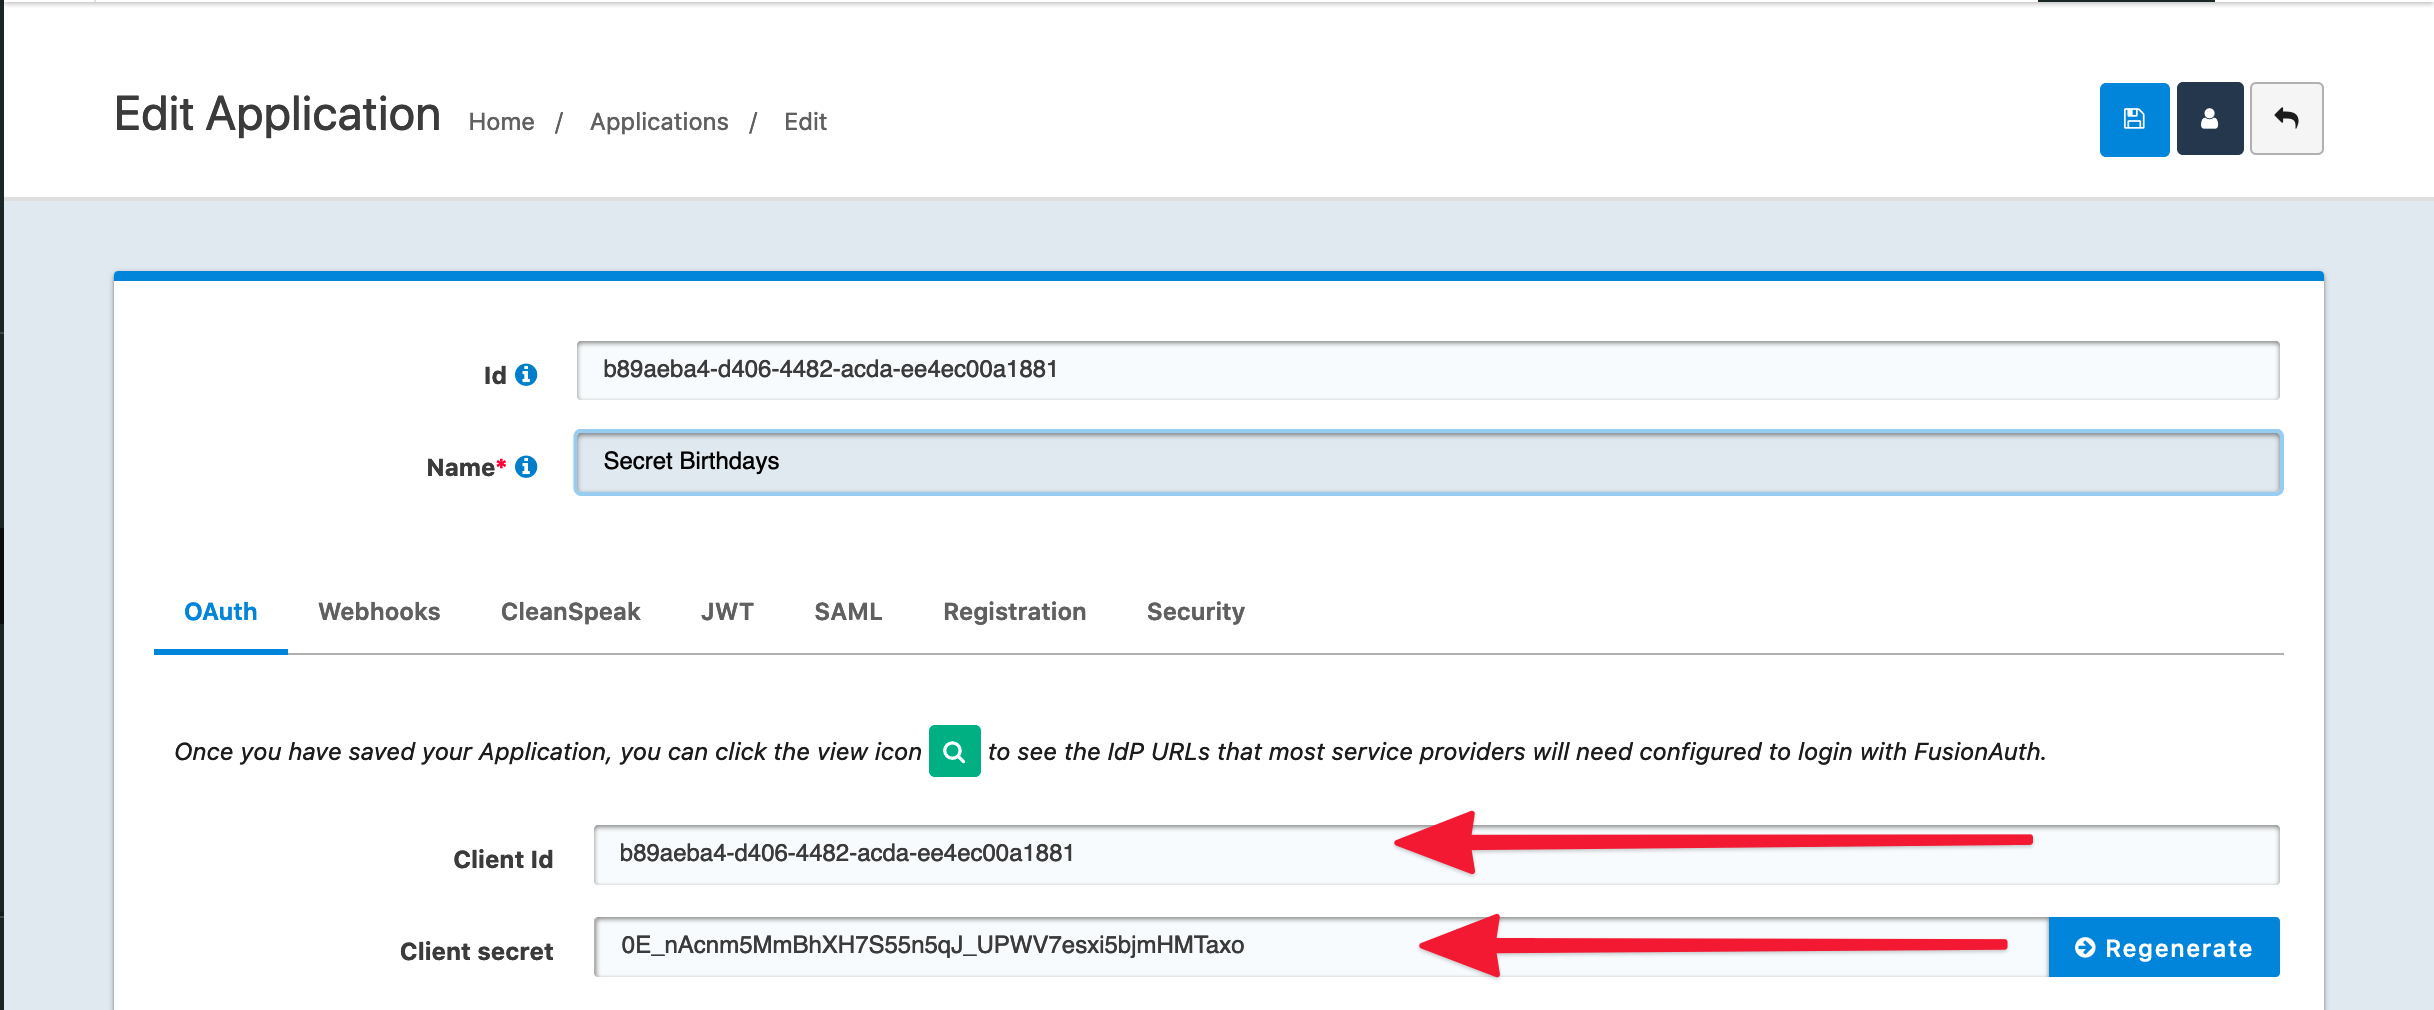
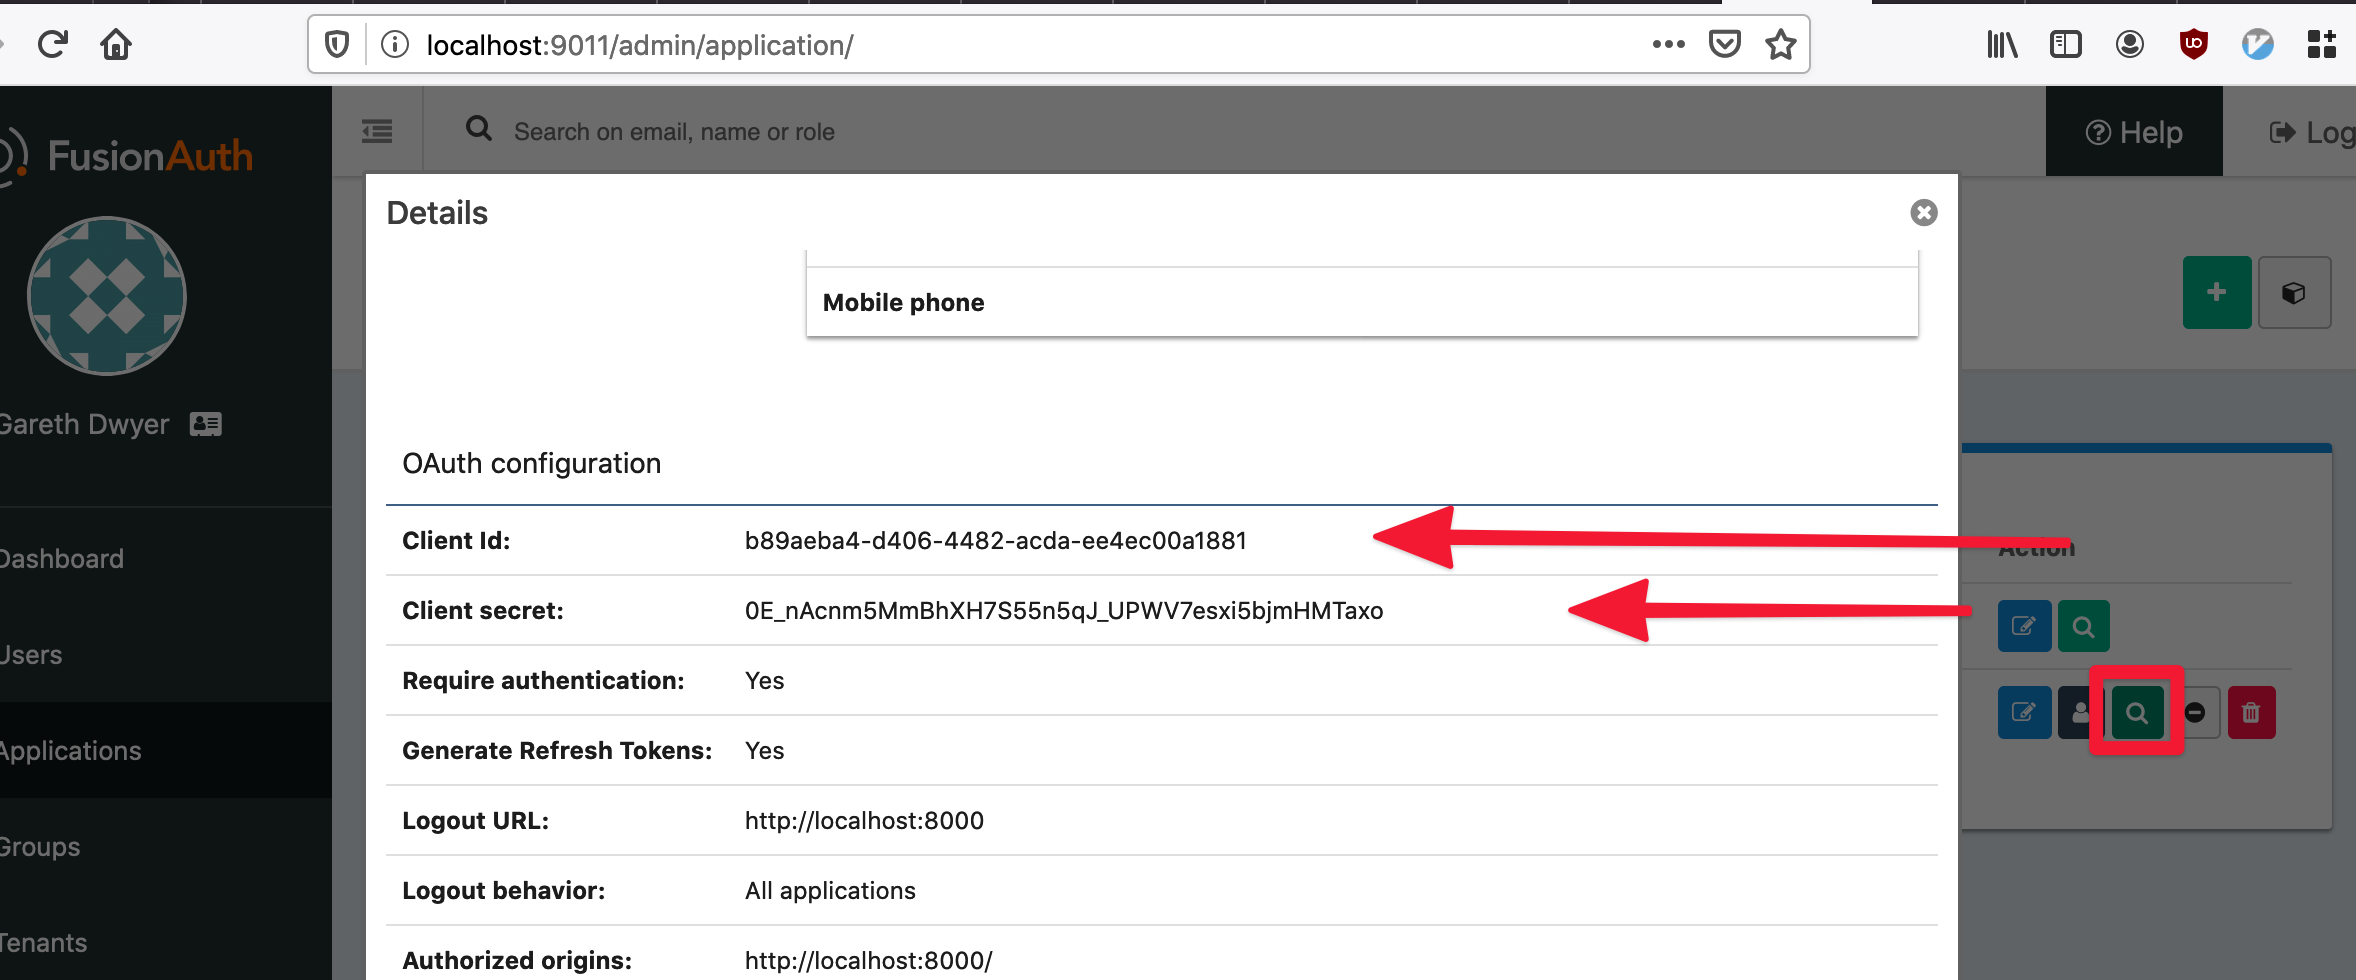
fusionauth edits

diff --git a/drafts/fusionauth/adding-social-sign-in-to-django-using-fusionauth.html b/drafts/fusionauth/adding-social-sign-in-to-django-using-fusionauth.html
@@ -153,18 +153,18 @@ class HomeView(View):
 ]</code></pre>
 <p>If you fire up <a href="http://localhost:8000">http://localhost:8000</a> in your web browser now, you should see our home page.</p>
 <figure>
-<img src="images/homepage1.png" alt="" /><figcaption><strong>Image :</strong> <em>How our home page will look</em></figcaption>
+<img src="images/homepage1.png" alt="" /><figcaption><strong>Image :</strong> <em>Our public home page</em></figcaption>
 </figure>
 <p>To build the login URL (which will direct users to our FusionAuth server), we need to have some of our FusionAuth config copied across to our Django project. Specifically, we’ll need an API key and our app’s client ID.</p>
 <p>Go back to the FusionAuth dashboard (<a href="http://localhost9011">http://localhost:9011</a>) and complete the next piece of set up.</p>
 <figure>
 <img src="images/fusionauth-setup2.png" alt="" /><figcaption><strong>Image :</strong> <em>We still need an API key</em></figcaption>
 </figure>
-<p>Add a name for the key, take note of the generated Key, leave it with all permissions, and press the save button.</p>
+<p>Add a name for the key, take note of the generated Key. For extra security, you can restrict the permissions for the key. For our app, we only need to enable the actions for <code>/api/user/</code>, which will let the key carry about basic actions on users. If you leave the key with no explicitly assigned permissions, it will be an all-powerful key that can control all aspects of your FusionAuth app.</p>
 <figure>
 <img src="images/gettingapikey.png" alt="" /><figcaption><strong>Image :</strong> <em>Getting the API key from FusionAuth</em></figcaption>
 </figure>
-<p>Under Applications, edit the Secret Birthday’s application and take note of the Application ID and Client Secret. (Note that the Client Secret and API Key are used in similar contexts, but the former is more limited.)</p>
+<p>Under Applications, click on the green magnifying glass by “Secret Birthdays” and take note of the Application ID and Client Secret. You need to scroll down a bit in the modal to get to the correct section</p>
 <figure>
 <img src="images/fusionauth-clientidsecret.png" alt="" /><figcaption><strong>Image :</strong> <em>Getting the Application ID from FusionAuth</em></figcaption>
 </figure>
@@ -310,6 +310,11 @@ from fusionauth.fusionauth_client import FusionAuthClient</code></pre>
 
     except Exception as e:
         print(e)</code></pre>
+<p>Now after the user presses log in, they’ll be taken over to the FusionAuth page where they can log in or create an account (if they choose the log in with Google option, the log in and sign up flows are the same).</p>
+<figure>
+<img src="images/fusionauth-login.png" alt="" /><figcaption><strong>Image :</strong> <em>The FusionAuth login and sign up page</em></figcaption>
+</figure>
+<p>If it’s important to you that your log in page shares a look and feel with the rest of your application, FusionAuth allows you to fully customise this page using <a href="https://fusionauth.io/docs/v1/tech/themes/">FusionAuth themes</a>, but doing so is left as an exercise for the reader.</p>
 <p>After the user is directed back to the /dashboard route from FusionAuth (after logging in), they’ll bring a “Code” with them. This is what FusionAuth gave them in return for completing a successful log in. As this code is semi public (available in the URL), we don’t trust it completely. Instead we use this code to check with FusionAuth directly by exchanging it for an oauth token, which tells us which user the code was given to.</p>
 <p>If everything goes well, the user is allowed to see the “secret” dashboard. Of course, we still don’t actually know the user’s birthday, so we have to ask them. At the moment, we aren’t collecting the information in the form, so let’s add the <code>post()</code> function in our dashboard view to do that.</p>
 <figure>
@@ -387,9 +392,9 @@ from fusionauth.fusionauth_client import FusionAuthClient</code></pre>
 </figure>
 <h2>Where next?</h2>
 <p>That’s the basics of our Django app done. The app stores sensitive information such as users’ names (from Gmail) and birthdates (that they enter in our app), but delegates all responsibility for safeguarding and validating this information to FusionAuth.</p>
-<p>Of course, you would need to add more interesting features to this app for it to be useful.</p>
+<p>Of course, you would need to add more interesting features to this app for it to be useful. But any information that stores private information can follow a similar pattern. You could make the app useful by allowing people to store more information, such as journal entries. Or you could allow them to store people’s names along with birthdays, and remind them to send good wishes the day before someone’s birthday. The possibilities are endless.</p>
 <p>For a production set up, you would also need to do a bit more work in making sure FusionAuth was really safe. In our example, we used the default password provided with Docker for our database, left debug mode on, and ran FusionAuth locally, co “hosted” with our Django application.</p>
-<p>For a safer set up, you would run FusionAuth on its own infrastructure, physically separate from the Django app, and take more care around production configuration and deployment.</p>
+<p>For a safer set up, you would run FusionAuth on its own infrastructure, physically separate from the Django app, and take more care around production configuration and deployment, but FusionAuth gives you all of the tools to do this easily.</p>
 </body>
 </html>
     <style type="text/css">

diff --git a/drafts/fusionauth/adding-social-sign-in-to-django-using-fusionauth.md b/drafts/fusionauth/adding-social-sign-in-to-django-using-fusionauth.md
@@ -201,7 +201,7 @@ INSTALLED_APPS = [
 
 If you fire up [http://localhost:8000](http://localhost:8000) in your web browser now, you should see our home page.
 
-![**Image :** *How our home page will look*](images/homepage1.png)
+![**Image :** *Our public home page*](images/homepage1.png)
 
 To build the login URL (which will direct users to our FusionAuth server), we need to have some of our FusionAuth config copied across to our Django project. Specifically, we’ll need an API key and our app’s client ID.
 
@@ -209,11 +209,11 @@ Go back to the FusionAuth dashboard ([http://localhost:9011](http://localhost901
 
 ![**Image :** *We still need an API key*](images/fusionauth-setup2.png)
 
-Add a name for the key, take note of the generated Key, leave it with all permissions, and press the save button.
+Add a name for the key, take note of the generated Key. For extra security, you can restrict the permissions for the key. For our app, we only need to enable the actions for `/api/user/`, which will let the key carry about basic actions on users. If you leave the key with no explicitly assigned permissions, it will be an all-powerful key that can control all aspects of your FusionAuth app.
 
 ![**Image :** *Getting the API key from FusionAuth*](images/gettingapikey.png)
 
-Under Applications, edit the Secret Birthday's application and take note of the Application ID and Client Secret. (Note that the Client Secret and API Key are used in similar contexts, but the former is more limited.)
+Under Applications, click on the green magnifying glass by "Secret Birthdays" and take note of the Application ID and Client Secret. You need to scroll down a bit in the modal to get to the correct section
 
 ![**Image :** *Getting the Application ID from FusionAuth*](images/fusionauth-clientidsecret.png)
 
@@ -390,7 +390,14 @@ def user_login_ok(request):
         print(e)
 ```
 
+Now after the user presses log in, they'll be taken over to the FusionAuth page where they can log in or create an account (if they choose the log in with Google option, the log in and sign up flows are the same).
+
+![**Image :** *The FusionAuth login and sign up page*](images/fusionauth-login.png)
+
+If it's important to you that your log in page shares a look and feel with the rest of your application, FusionAuth allows you to fully customise this page using [FusionAuth themes](https://fusionauth.io/docs/v1/tech/themes/), but doing so is left as an exercise for the reader.
+
 After the user is directed back to the /dashboard route from FusionAuth (after logging in), they’ll bring a “Code” with them. This is what FusionAuth gave them in return for completing a successful log in. As this code is semi public (available in the URL), we don’t trust it completely. Instead we use this code to check with FusionAuth directly by exchanging it for an oauth token, which tells us which user the code was given to.
+
 
 If everything goes well, the user is allowed to see the “secret” dashboard. Of course, we still don’t actually know the user’s birthday, so we have to ask them. At the moment, we aren’t collecting the information in the form, so let’s add the `post()` function in our dashboard view to do that.
 
@@ -480,9 +487,9 @@ Hitting the big Logout link in the Django app takes you back through FusionAuth,
 
 That’s the basics of our Django app done. The app stores sensitive information such as users’ names (from Gmail) and birthdates (that they enter in our app), but delegates all responsibility for safeguarding and validating this information to FusionAuth.
 
-Of course, you would need to add more interesting features to this app for it to be useful.
+Of course, you would need to add more interesting features to this app for it to be useful. But any information that stores private information can follow a similar pattern. You could make the app useful by allowing people to store more information, such as journal entries. Or you could allow them to store people's names along with birthdays, and remind them to send good wishes the day before someone's birthday. The possibilities are endless.
 
 For a production set up, you would also need to do a bit more work in making sure FusionAuth was really safe. In our example, we used the default password provided with Docker for our database, left debug mode on, and ran FusionAuth locally, co “hosted” with our Django application.
 
-For a safer set up, you would run FusionAuth on its own infrastructure, physically separate from the Django app, and take more care around production configuration and deployment.
+For a safer set up, you would run FusionAuth on its own infrastructure, physically separate from the Django app, and take more care around production configuration and deployment, but FusionAuth gives you all of the tools to do this easily.
 
